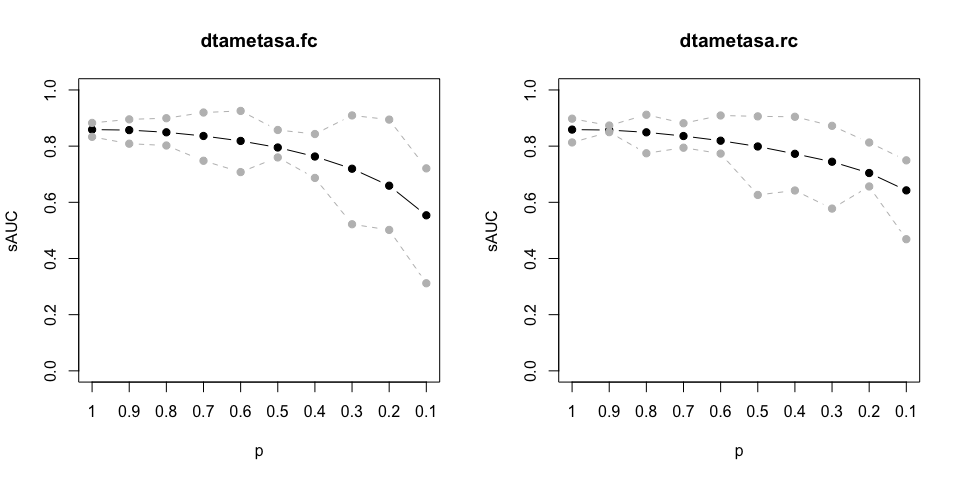
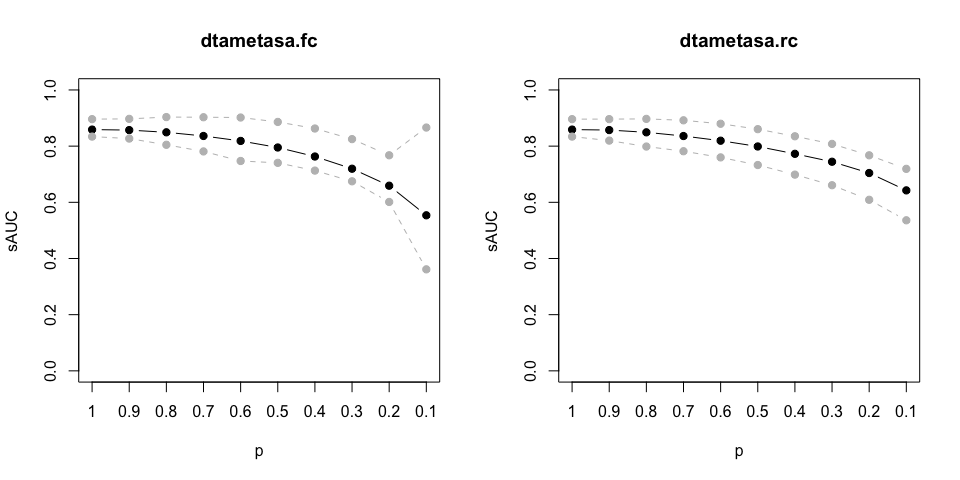
update

diff --git a/README.md b/README.md
@@ -4,7 +4,6 @@
 # DTA-META-SA
 
 <!-- badges: start -->
-
 <!-- badges: end -->
 
 The goal of `dtametasa` is to conduct sensitivity analysis on the
@@ -16,7 +15,6 @@ You can install the released version from
 [GitHub](https://github.com/meta2020/dtametasa) with:
 
 ``` r
-
 # install.packages("devtools")
 devtools::install_github("meta2020/dtametasa")
 ```
@@ -25,9 +23,9 @@ devtools::install_github("meta2020/dtametasa")
 
 Two formats of data are applicable:
 
-  - Number of TP/FN/FP/TN
+-   Number of TP/FN/FP/TN
 
-  - After logit transformation: y1/y2/v1/v2
+-   After logit transformation: y1/y2/v1/v2
 
 <span style="color:red">**Attention: the column names of data must be
 either of the above.**</span>
@@ -50,24 +48,23 @@ data(IVD)
 kable(head(IVD))
 ```
 
-| study | TP | FN |  FP |  TN |
-| ----: | -: | -: | --: | --: |
-|     1 | 12 |  0 |  29 | 289 |
-|     2 | 10 |  2 |  14 |  72 |
-|     3 | 17 |  1 |  36 |  85 |
-|     4 | 13 |  0 |  18 |  67 |
-|     5 |  4 |  0 |  21 | 225 |
-|     6 | 15 |  2 | 122 | 403 |
+| study |  TP |  FN |  FP |  TN |
+|------:|----:|----:|----:|----:|
+|     1 |  12 |   0 |  29 | 289 |
+|     2 |  10 |   2 |  14 |  72 |
+|     3 |  17 |   1 |  36 |  85 |
+|     4 |  13 |   0 |  18 |  67 |
+|     5 |   4 |   0 |  21 | 225 |
+|     6 |  15 |   2 | 122 | 403 |
 
 ``` r
-
 
 data(IVD2)
 kable(head(IVD2))
 ```
 
 |  sens |  spec |   y1 |    y2 |    v1 |    v2 | ldor.t |
-| ----: | ----: | ---: | ----: | ----: | ----: | -----: |
+|------:|------:|-----:|------:|------:|------:|-------:|
 | 0.962 | 0.908 | 3.22 | 2.284 | 2.080 | 0.037 |   3.78 |
 | 0.808 | 0.833 | 1.44 | 1.609 | 0.495 | 0.083 |   4.00 |
 | 0.921 | 0.701 | 2.46 | 0.851 | 0.724 | 0.039 |   3.79 |
@@ -80,7 +77,7 @@ kable(head(IVD2))
 This function need to pre-specify the c contrast in the selection
 function.
 
-##### 1\. Given a certain selection probability \(p\), say, \(p = 0.7\), we can get the estimation as follows.
+##### 1. Given a certain selection probability *p*, say, *p* = 0.7, we can get the estimation as follows.
 
 ``` r
 ## Use default parameters setting
@@ -107,13 +104,12 @@ function.
 # str(sa1)
 ```
 
-##### 2\. Given a series of selection probabilities, say, \(p = 1, 0.9, 0,8, ...,0.1\).
+##### 2. Given a series of selection probabilities, say, *p* = 1, 0.9, 0, 8, ..., 0.1.
 
-Attention: **\(p\) must greater than 0 and cannot equal to 0.
-(\(p>0\)).**
+Attention: ***p* must greater than 0 and cannot equal to 0.
+(*p* &gt; 0).**
 
 ``` r
-
 ## Set p vectors
 
 p.seq <- seq(1, 0.1, -0.1)
@@ -128,27 +124,27 @@ colnames(est1)<- paste0("p = ", p.seq)
 kable(est1)
 ```
 
-|      |   p = 1 | p = 0.9 | p = 0.8 | p = 0.7 | p = 0.6 | p = 0.5 | p = 0.4 | p = 0.3 | p = 0.2 | p = 0.1 |
-| :--- | ------: | ------: | ------: | ------: | ------: | ------: | ------: | ------: | ------: | ------: |
-| u1   |   1.388 |   1.383 |   1.352 |   1.299 |   1.230 |   1.146 |   1.040 |   0.902 |   0.707 |   0.322 |
-| u2   |   1.804 |   1.799 |   1.769 |   1.717 |   1.645 |   1.553 |   1.430 |   1.267 |   1.036 |   0.584 |
-| t11  |   0.297 |   0.300 |   0.303 |   0.304 |   0.307 |   0.315 |   0.334 |   0.367 |   0.421 |   0.555 |
-| t22  |   0.671 |   0.676 |   0.690 |   0.709 |   0.734 |   0.767 |   0.816 |   0.884 |   0.980 |   1.178 |
-| t12  | \-0.189 | \-0.186 | \-0.175 | \-0.159 | \-0.140 | \-0.114 | \-0.079 | \-0.029 |   0.044 |   0.204 |
-| b    |   1.000 |   2.000 |   2.000 |   2.000 |   2.000 |   2.000 |   2.000 |   1.915 |   1.759 |   1.674 |
-| a    |  18.330 | \-2.556 | \-3.647 | \-4.308 | \-4.781 | \-5.151 | \-5.456 | \-5.507 | \-5.353 | \-5.358 |
-| c11  |   0.500 |   0.500 |   0.500 |   0.500 |   0.500 |   0.500 |   0.500 |   0.500 |   0.500 |   0.500 |
-| c22  |   0.500 |   0.500 |   0.500 |   0.500 |   0.500 |   0.500 |   0.500 |   0.500 |   0.500 |   0.500 |
-| sauc |   0.859 |   0.857 |   0.849 |   0.836 |   0.819 |   0.795 |   0.763 |   0.720 |   0.659 |   0.554 |
-| se   |   0.800 |   0.799 |   0.794 |   0.786 |   0.774 |   0.759 |   0.739 |   0.711 |   0.670 |   0.580 |
-| sp   |   0.859 |   0.858 |   0.854 |   0.848 |   0.838 |   0.825 |   0.807 |   0.780 |   0.738 |   0.642 |
+|      |  p = 1 | p = 0.9 | p = 0.8 | p = 0.7 | p = 0.6 | p = 0.5 | p = 0.4 | p = 0.3 | p = 0.2 | p = 0.1 |
+|:-----|-------:|--------:|--------:|--------:|--------:|--------:|--------:|--------:|--------:|--------:|
+| u1   |  1.388 |   1.383 |   1.352 |   1.299 |   1.230 |   1.146 |   1.040 |   0.902 |   0.707 |   0.322 |
+| u2   |  1.804 |   1.799 |   1.769 |   1.717 |   1.645 |   1.553 |   1.430 |   1.267 |   1.036 |   0.584 |
+| t11  |  0.297 |   0.300 |   0.303 |   0.304 |   0.307 |   0.315 |   0.334 |   0.367 |   0.421 |   0.555 |
+| t22  |  0.671 |   0.676 |   0.690 |   0.709 |   0.734 |   0.767 |   0.816 |   0.884 |   0.980 |   1.178 |
+| t12  | -0.189 |  -0.186 |  -0.175 |  -0.159 |  -0.140 |  -0.114 |  -0.079 |  -0.029 |   0.044 |   0.204 |
+| b    |  1.000 |   2.000 |   2.000 |   2.000 |   2.000 |   2.000 |   2.000 |   1.915 |   1.759 |   1.674 |
+| a    | 18.330 |  -2.556 |  -3.647 |  -4.308 |  -4.781 |  -5.151 |  -5.456 |  -5.507 |  -5.353 |  -5.358 |
+| c11  |  0.500 |   0.500 |   0.500 |   0.500 |   0.500 |   0.500 |   0.500 |   0.500 |   0.500 |   0.500 |
+| c22  |  0.500 |   0.500 |   0.500 |   0.500 |   0.500 |   0.500 |   0.500 |   0.500 |   0.500 |   0.500 |
+| sauc |  0.859 |   0.857 |   0.849 |   0.836 |   0.819 |   0.795 |   0.763 |   0.720 |   0.659 |   0.554 |
+| se   |  0.800 |   0.799 |   0.794 |   0.786 |   0.774 |   0.759 |   0.739 |   0.711 |   0.670 |   0.580 |
+| sp   |  0.859 |   0.858 |   0.854 |   0.848 |   0.838 |   0.825 |   0.807 |   0.780 |   0.738 |   0.642 |
 
 ### Main function 2: dtametasa.rc
 
 This function do not need to pre-specify the c contrast in the selection
 function.
 
-##### 1\. Given a certain selection probability \(p\), say, \(p = 0.7\), we can get the estimation as follows.
+##### 1. Given a certain selection probability *p*, say, *p* = 0.7, we can get the estimation as follows.
 
 ``` r
 ## Use default parameters setting
@@ -166,10 +162,10 @@ function.
 # str(sa2)
 ```
 
-##### 2\. Given a series of selection probabilities, say, \(p = 1, 0.9, 0,8, ...,0.1\).
+##### 2. Given a series of selection probabilities, say, *p* = 1, 0.9, 0, 8, ..., 0.1.
 
-Attention: **\(p\) must greater than 0 and cannot equal to 0.
-(\(p>0\)).**
+Attention: ***p* must greater than 0 and cannot equal to 0.
+(*p* &gt; 0).**
 
 ``` r
 ## Set p vectors
@@ -186,24 +182,24 @@ colnames(est2)<- paste0("p = ", p.seq)
 kable(est2)
 ```
 
-|      |   p = 1 | p = 0.9 | p = 0.8 | p = 0.7 | p = 0.6 | p = 0.5 | p = 0.4 | p = 0.3 | p = 0.2 | p = 0.1 |
-| :--- | ------: | ------: | ------: | ------: | ------: | ------: | ------: | ------: | ------: | ------: |
-| u1   |   1.388 |   1.382 |   1.349 |   1.297 |   1.236 |   1.168 |   1.086 |   0.998 |   0.867 |   0.624 |
-| u2   |   1.804 |   1.800 |   1.773 |   1.719 |   1.640 |   1.535 |   1.396 |   1.215 |   0.938 |   0.405 |
-| t11  |   0.297 |   0.301 |   0.305 |   0.305 |   0.304 |   0.305 |   0.311 |   0.318 |   0.338 |   0.389 |
-| t22  |   0.671 |   0.674 |   0.686 |   0.707 |   0.738 |   0.782 |   0.844 |   0.927 |   1.059 |   1.331 |
-| t12  | \-0.189 | \-0.186 | \-0.175 | \-0.159 | \-0.141 | \-0.119 | \-0.089 | \-0.056 | \-0.002 |   0.112 |
-| b    |   1.000 |   2.000 |   2.000 |   2.000 |   2.000 |   2.000 |   1.994 |   1.801 |   1.683 |   1.600 |
-| a    |  18.330 | \-2.176 | \-3.440 | \-4.257 | \-4.870 | \-5.352 | \-5.723 | \-5.566 | \-5.537 | \-5.580 |
-| c11  |   0.500 |   0.615 |   0.558 |   0.514 |   0.477 |   0.450 |   0.431 |   0.408 |   0.393 |   0.378 |
-| c22  |   0.500 |   0.385 |   0.442 |   0.486 |   0.523 |   0.550 |   0.569 |   0.592 |   0.607 |   0.622 |
-| sauc |   0.859 |   0.857 |   0.849 |   0.836 |   0.819 |   0.799 |   0.773 |   0.744 |   0.704 |   0.643 |
-| se   |   0.800 |   0.799 |   0.794 |   0.785 |   0.775 |   0.763 |   0.748 |   0.731 |   0.704 |   0.651 |
-| sp   |   0.859 |   0.858 |   0.855 |   0.848 |   0.838 |   0.823 |   0.802 |   0.771 |   0.719 |   0.600 |
+|      |  p = 1 | p = 0.9 | p = 0.8 | p = 0.7 | p = 0.6 | p = 0.5 | p = 0.4 | p = 0.3 | p = 0.2 | p = 0.1 |
+|:-----|-------:|--------:|--------:|--------:|--------:|--------:|--------:|--------:|--------:|--------:|
+| u1   |  1.388 |   1.382 |   1.349 |   1.297 |   1.236 |   1.168 |   1.086 |   0.998 |   0.867 |   0.624 |
+| u2   |  1.804 |   1.800 |   1.773 |   1.719 |   1.640 |   1.535 |   1.396 |   1.215 |   0.938 |   0.405 |
+| t11  |  0.297 |   0.301 |   0.305 |   0.305 |   0.304 |   0.305 |   0.311 |   0.318 |   0.338 |   0.389 |
+| t22  |  0.671 |   0.674 |   0.686 |   0.707 |   0.738 |   0.782 |   0.844 |   0.927 |   1.059 |   1.331 |
+| t12  | -0.189 |  -0.186 |  -0.175 |  -0.159 |  -0.141 |  -0.119 |  -0.089 |  -0.056 |  -0.002 |   0.112 |
+| b    |  1.000 |   2.000 |   2.000 |   2.000 |   2.000 |   2.000 |   1.994 |   1.801 |   1.683 |   1.600 |
+| a    | 18.330 |  -2.176 |  -3.440 |  -4.257 |  -4.870 |  -5.352 |  -5.723 |  -5.566 |  -5.537 |  -5.580 |
+| c11  |  0.500 |   0.615 |   0.558 |   0.514 |   0.477 |   0.450 |   0.431 |   0.408 |   0.393 |   0.378 |
+| c22  |  0.500 |   0.385 |   0.442 |   0.486 |   0.523 |   0.550 |   0.569 |   0.592 |   0.607 |   0.622 |
+| sauc |  0.859 |   0.857 |   0.849 |   0.836 |   0.819 |   0.799 |   0.773 |   0.744 |   0.704 |   0.643 |
+| se   |  0.800 |   0.799 |   0.794 |   0.785 |   0.775 |   0.763 |   0.748 |   0.731 |   0.704 |   0.651 |
+| sp   |  0.859 |   0.858 |   0.855 |   0.848 |   0.838 |   0.823 |   0.802 |   0.771 |   0.719 |   0.600 |
 
 ### Plot sROC
 
-##### 1\. Single sROC
+##### 1. Single sROC
 
 ``` r
 par(mfrow = c(1,2))
@@ -262,7 +258,7 @@ title("When selection prob = 0.0.5")
 par(mfrow = c(1,1))
 ```
 
-##### 2\. Multiple sROC
+##### 2. Multiple sROC
 
 ``` r
 ## p vector and model
@@ -299,13 +295,14 @@ The confidence interval (CI) is calculated by parametric bootstrapping.
 To save computing time, we set bootstrapping times as 5 (`B = 5`). Hence
 the results are not reliable.
 
-<span style="color:red">**In real analysis, please set `B
-= 1000`.**</span>
+<span style="color:red">**In real analysis, please set
+`B = 1000`.**</span>
 
-#### 1\. Single sROC
+If you donot hope to set the seed, please set `set.seed = NULL`
+
+#### 1. Single sROC
 
 ``` r
-
 ## Use parameter vector
 par1 <- sa1$par
 par2 <- sa2$par
@@ -326,25 +323,24 @@ title("dtametasa.rc")
 <img src="man/figures/README-unnamed-chunk-9-1.png" width="100%" />
 
 ``` r
-
 par(mfrow = c(1,1))
 ```
 
-#### 2\. Single sROC with CI
+#### 2. Single sROC with CI
 
 ``` r
-
 ## Calculate Parametric Bootstrap CI
 ## B (Bootstrapping times) is suggested to be 1000. To save computing time, we use B = 10 to show the functionality.
 
+
 par(mfrow = c(1,2))
 sROC(sa1)
-ci1 <- sAUC.ci(sa1, B=5, plot.ROC.ci = FALSE, hide.progress = TRUE)
+ci1 <- sAUC.ci(sa1, B=5, hide.progress = TRUE, set.seed=2021)
 plot(ci1)
 title("dtametasa.fc")
 
 sROC(sa2)
-ci2 <- sAUC.ci(sa2, B=5, plot.ROC.ci = FALSE, hide.progress = TRUE)
+ci2 <- sAUC.ci(sa2, B=5, hide.progress = TRUE, set.seed=2021)
 plot(ci2)
 title("dtametasa.rc")
 ```
@@ -352,14 +348,12 @@ title("dtametasa.rc")
 <img src="man/figures/README-unnamed-chunk-10-1.png" width="100%" />
 
 ``` r
-
 par(mfrow = c(1,1))
 ```
 
-#### 3\. Multiple sAUC
+#### 3. Multiple sAUC
 
 ``` r
-
 ## Calculate Parametric Bootstrap CI
 
 ## B (Bootstrapping times) is suggested to be 1000. To save computing time, we use B = 5 to show the functionality.
@@ -368,14 +362,14 @@ p.seq <- seq(1, 0.1, -0.1)
 
 sauc1 <- sapply(p.seq, function(p) {
   sa1 <- dtametasa.fc(IVD, p)
-  sauc <- sAUC.ci(sa1, B=5, hide.progress = TRUE)
+  sauc <- sAUC.ci(sa1, B=5, hide.progress = TRUE, set.seed=2021)
   c(sauc[[1]], sauc[[2]], sauc[[3]])
   })
 
 
 sauc2 <- sapply(p.seq, function(p) {
   sa2 <- dtametasa.rc(IVD, p)
-  sauc <- sAUC.ci(sa2, B=5, hide.progress = TRUE)
+  sauc <- sAUC.ci(sa2, B=5, hide.progress = TRUE, set.seed=2021)
   c(sauc[[1]], sauc[[2]], sauc[[3]])
   })
 
@@ -385,25 +379,24 @@ kable(sauc1)
 ```
 
 |      | p = 1 | p = 0.9 | p = 0.8 | p = 0.7 | p = 0.6 | p = 0.5 | p = 0.4 | p = 0.3 | p = 0.2 | p = 0.1 |
-| :--- | ----: | ------: | ------: | ------: | ------: | ------: | ------: | ------: | ------: | ------: |
+|:-----|------:|--------:|--------:|--------:|--------:|--------:|--------:|--------:|--------:|--------:|
 | sAUC | 0.859 |   0.857 |   0.849 |   0.836 |   0.819 |   0.795 |   0.763 |   0.720 |   0.659 |   0.554 |
-| CI.L | 0.833 |   0.809 |   0.802 |   0.748 |   0.708 |   0.760 |   0.687 |   0.522 |   0.502 |   0.312 |
-| CI.U | 0.883 |   0.895 |   0.899 |   0.920 |   0.925 |   0.857 |   0.843 |   0.909 |   0.894 |   0.721 |
+| CI.L | 0.834 |   0.827 |   0.805 |   0.781 |   0.747 |   0.740 |   0.713 |   0.675 |   0.601 |   0.361 |
+| CI.U | 0.896 |   0.897 |   0.903 |   0.903 |   0.902 |   0.886 |   0.863 |   0.825 |   0.767 |   0.866 |
 
 ``` r
-
 colnames(sauc2)<- paste0("p = ", p.seq)
 rownames(sauc2)<- c("sAUC", "CI.L", "CI.U")
 kable(sauc2)
 ```
 
 |      | p = 1 | p = 0.9 | p = 0.8 | p = 0.7 | p = 0.6 | p = 0.5 | p = 0.4 | p = 0.3 | p = 0.2 | p = 0.1 |
-| :--- | ----: | ------: | ------: | ------: | ------: | ------: | ------: | ------: | ------: | ------: |
+|:-----|------:|--------:|--------:|--------:|--------:|--------:|--------:|--------:|--------:|--------:|
 | sAUC | 0.859 |   0.857 |   0.849 |   0.836 |   0.819 |   0.799 |   0.773 |   0.744 |   0.704 |   0.643 |
-| CI.L | 0.813 |   0.850 |   0.775 |   0.794 |   0.773 |   0.626 |   0.642 |   0.578 |   0.656 |   0.469 |
-| CI.U | 0.898 |   0.873 |   0.912 |   0.882 |   0.909 |   0.906 |   0.905 |   0.872 |   0.813 |   0.749 |
+| CI.L | 0.834 |   0.820 |   0.799 |   0.782 |   0.760 |   0.733 |   0.699 |   0.661 |   0.609 |   0.536 |
+| CI.U | 0.896 |   0.896 |   0.897 |   0.892 |   0.880 |   0.860 |   0.835 |   0.808 |   0.767 |   0.719 |
 
-#### 4\. Plot sAUC
+#### 4. Plot sAUC
 
 This is an example of how to plot sAUC and CI. In analysis, please set
 `B = 1000` and then reproduce the plots.
@@ -433,6 +426,5 @@ title("dtametasa.rc")
 <img src="man/figures/README-unnamed-chunk-12-1.png" width="100%" />
 
 ``` r
-
 par(mfrow = c(1,1))
 ```
